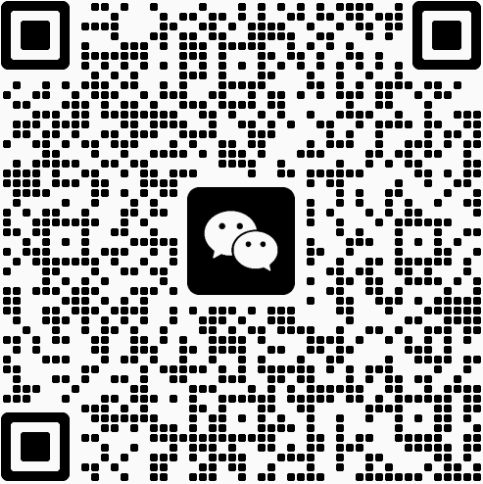
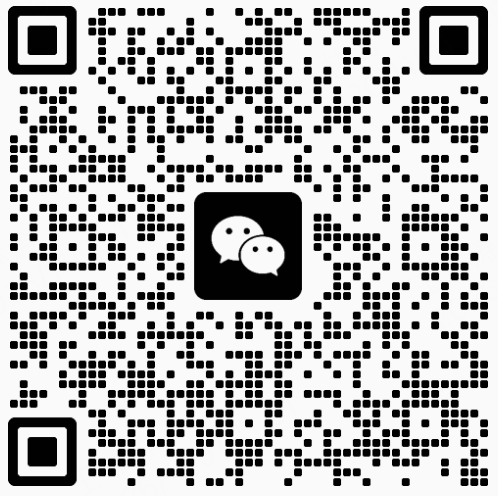
Update WeChat QR code

diff --git a/index.html b/index.html
@@ -60,7 +60,7 @@
               <button class="resource-discussion-trigger" type="button" aria-describedby="discussion-wechat-popover"><span>WeChat</span><small>QR-Code</small></button>
               <div class="resource-discussion-popover" id="discussion-wechat-popover" role="tooltip">
                 <strong>WorldOracle WeChat</strong>
-                <img src="assets/wechat-group-qr.png" alt="QR code for the WorldOracle WeChat group" width="483" height="484">
+                <img src="assets/wechat-group-qr.png?v=20261101" alt="QR code for the WorldOracle WeChat group" width="498" height="496">
                 <span>Scan to join the discussion.</span>
               </div>
             </div>

diff --git a/submission/login/register/index.html b/submission/login/register/index.html
@@ -72,7 +72,7 @@
     </form>
     <aside class="registration-wechat-card" aria-labelledby="registration-wechat-title">
       <h2 id="registration-wechat-title">WeChat QR Code</h2>
-      <img src="../../../assets/wechat-group-qr.png" alt="QR code for the WorldOracle WeChat group" width="483" height="484">
+      <img src="../../../assets/wechat-group-qr.png?v=20261101" alt="QR code for the WorldOracle WeChat group" width="498" height="496">
       <p>Questions about WorldOracle are also welcome in our WeChat group.</p>
     </aside>
     <section class="registration-success" data-registration-success role="status" aria-live="polite" tabindex="-1" hidden>
